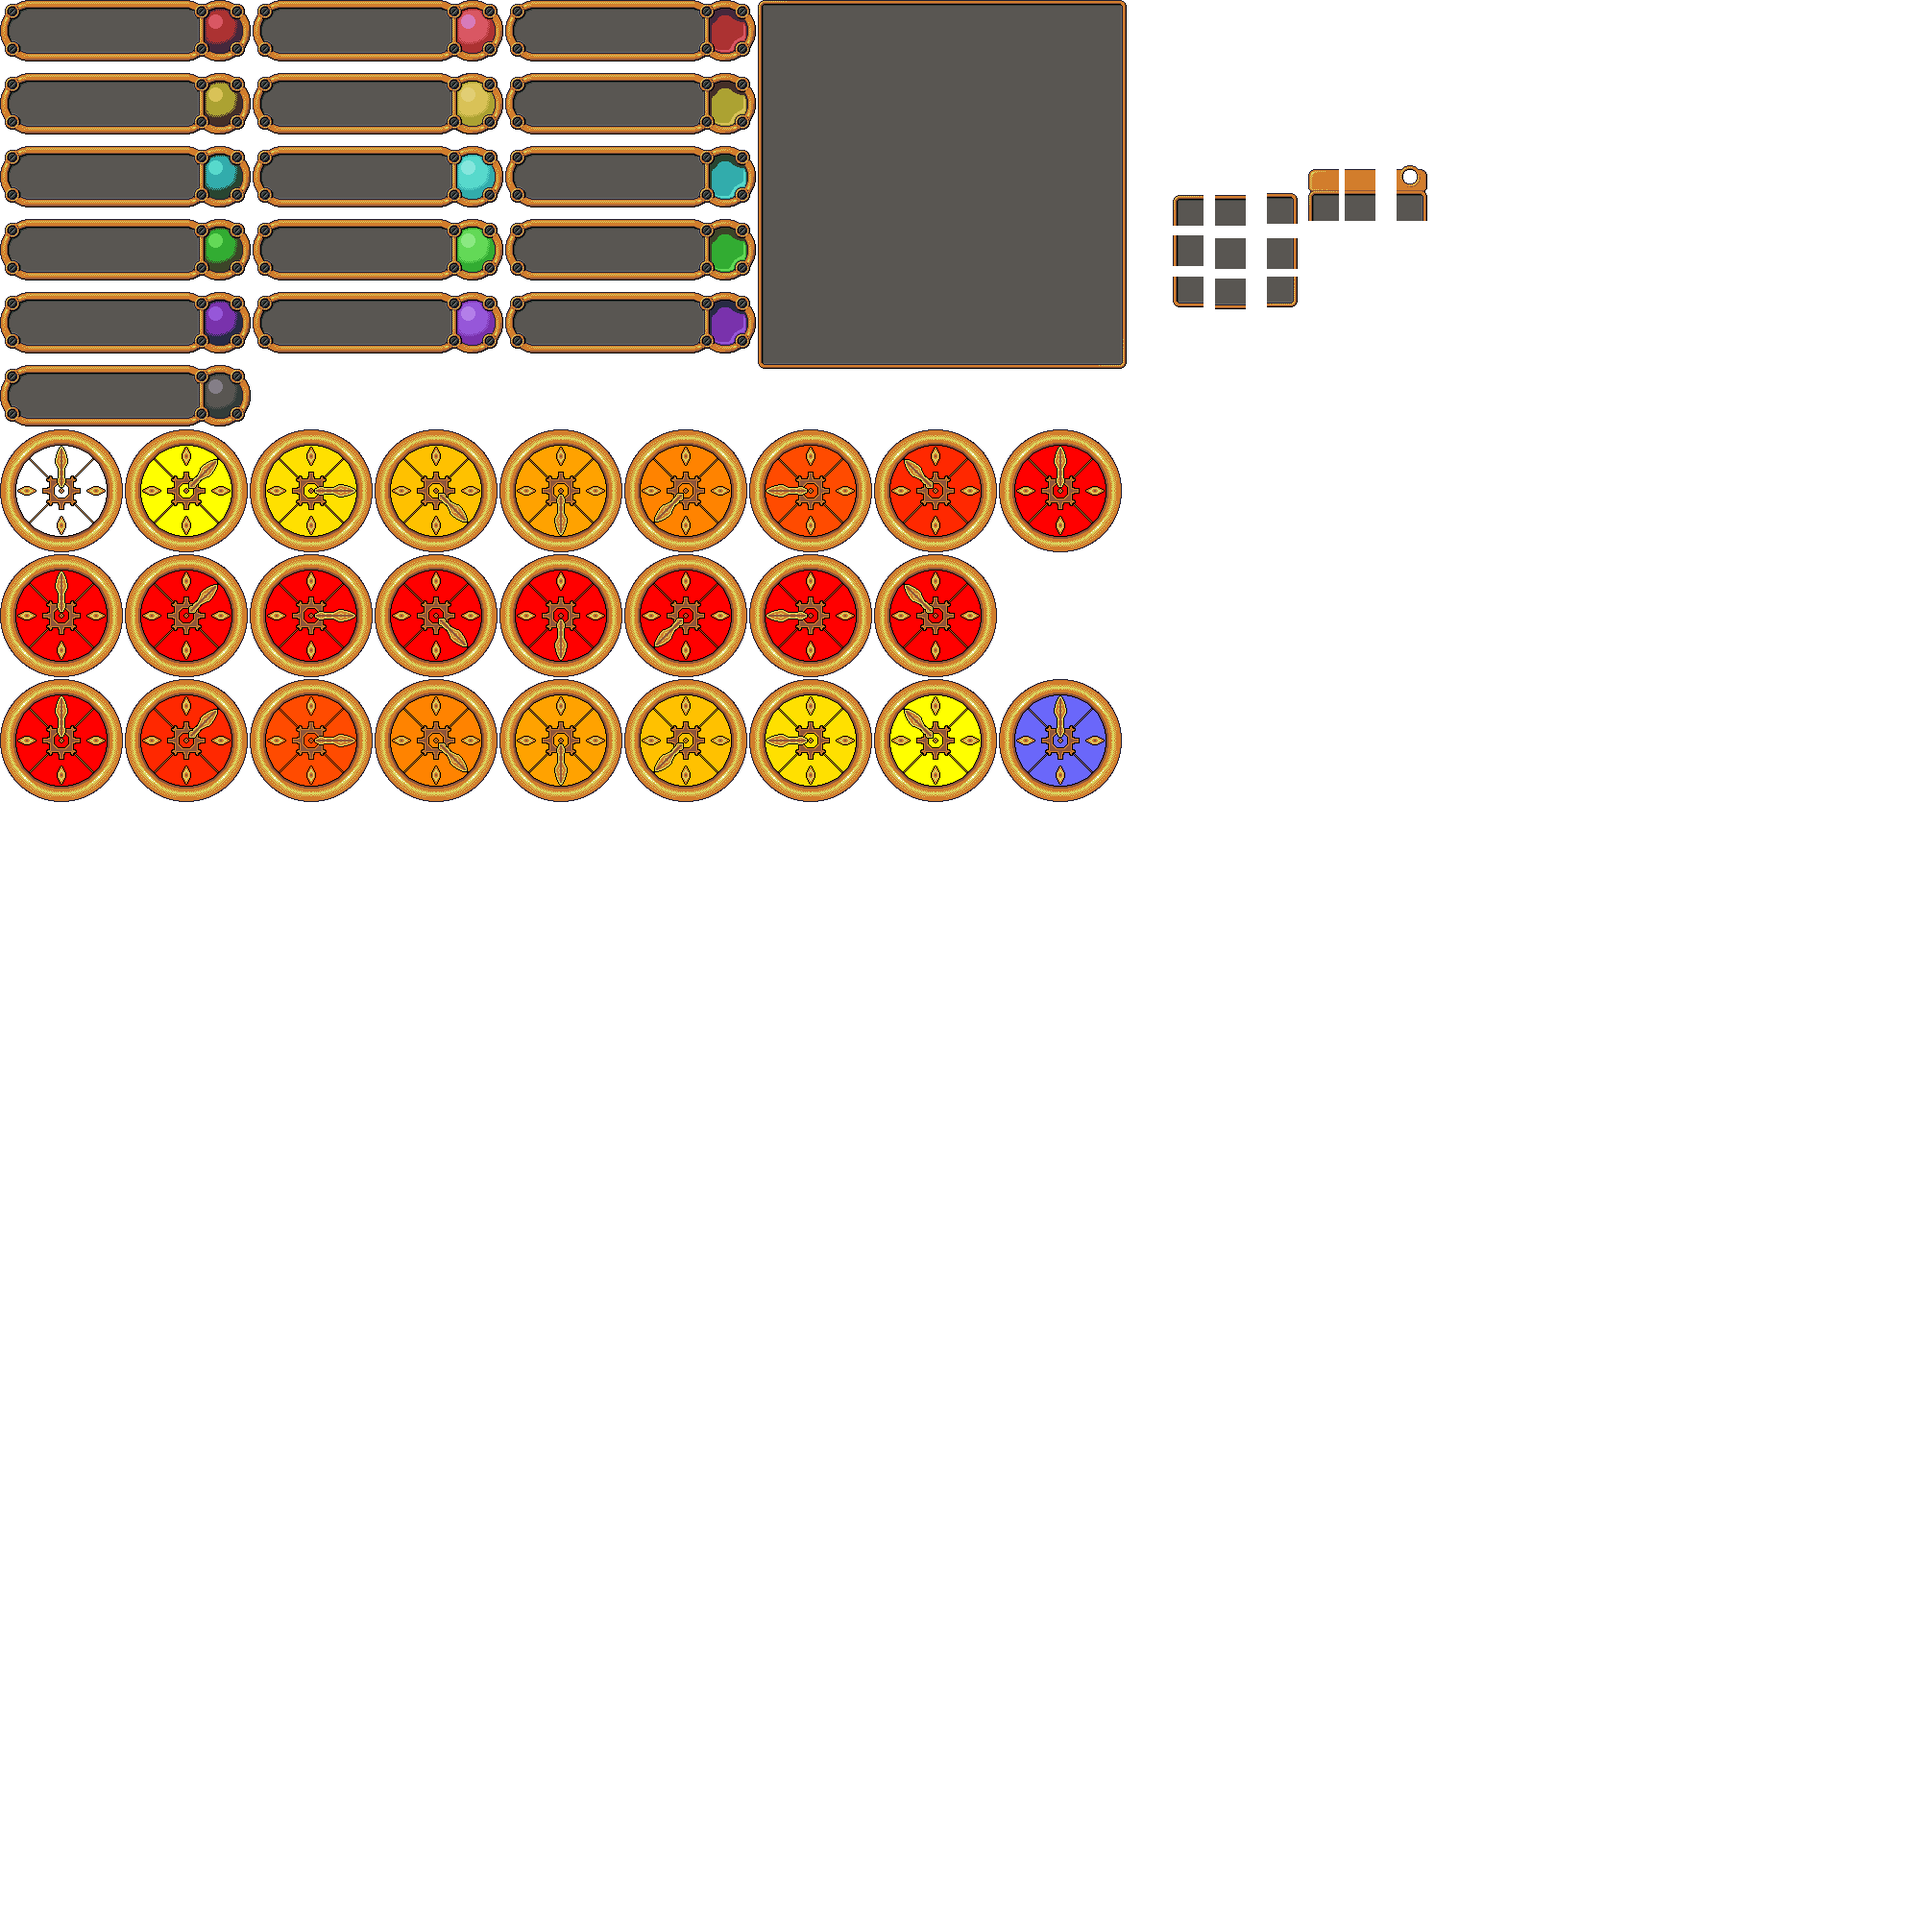
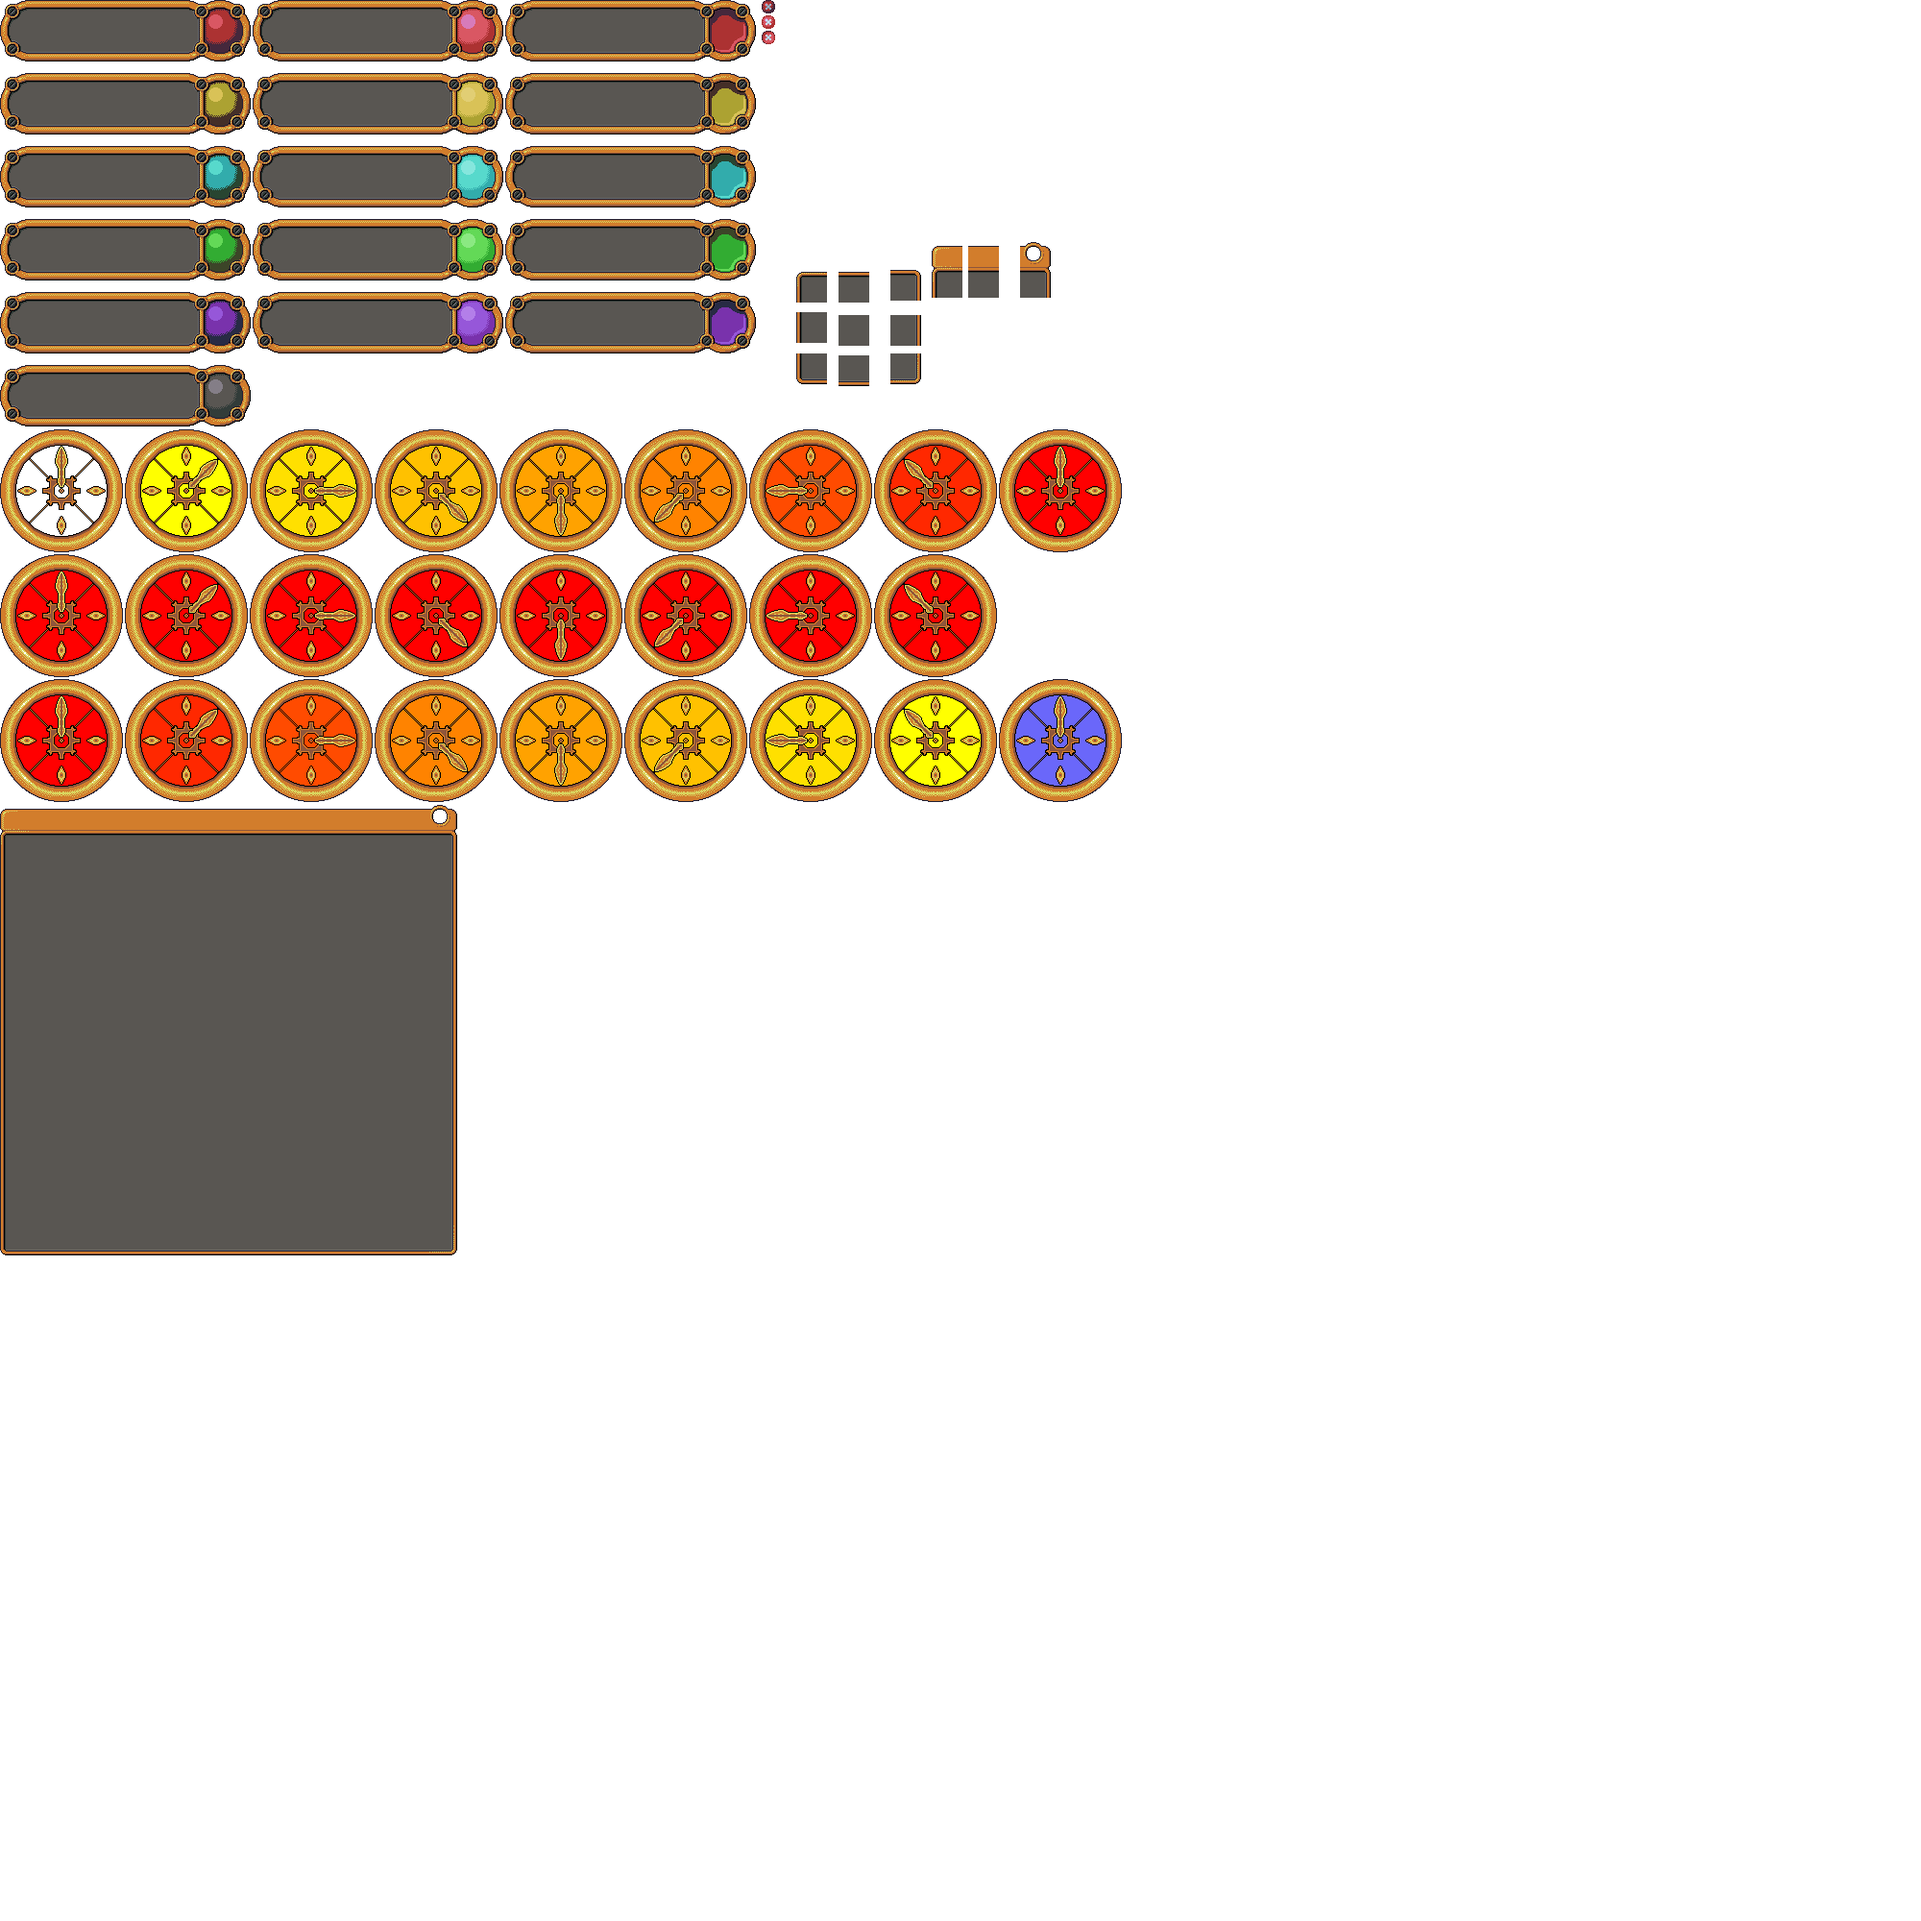
example credits window added

Changed region(s): [[0.0, 0.403, 0.248, 0.651], [0.372, 0.0, 0.744, 0.217]]

diff --git a/Dev_class5_Orthogonal/Motor2D/j1Gui.cpp b/Dev_class5_Orthogonal/Motor2D/j1Gui.cpp
@@ -466,11 +466,11 @@ UIElement * j1Gui::Load_Label_fromXML(pugi::xml_node node)
 	p2SString label = node.child("label").attribute("value").as_string();
 	int size = node.child("size").attribute("value").as_int();
 	bool draggable = node.child("draggable").attribute("value").as_bool();
-	if (!node.child("active").attribute("value").as_bool(true))
-		ret->active = false;
 
 	ret = AddLabel(position, relativepos, fontPath, color, label, size, draggable);
 
+	if (!node.child("active").attribute("value").as_bool(true))
+		ret->active = false;
 	return ret;
 }
 

diff --git a/Dev_class5_Orthogonal/Motor2D/Interactive.cpp b/Dev_class5_Orthogonal/Motor2D/Interactive.cpp
@@ -12,7 +12,7 @@ Interactive::Interactive()
 }
 
 
-Interactive::Interactive(SDL_Rect& pos, iPoint Interactiverelativepos, InteractiveType type, j1Module* callback) :  callback(callback)
+Interactive::Interactive(SDL_Rect& pos, iPoint Interactiverelativepos, InteractiveType type, j1Module* callback) :  callback(callback), Interactiverelativepos(Interactiverelativepos)
 {
 	this->type = type;
 	collider.x = pos.x + Interactiverelativepos.x;

diff --git a/Dev_class5_Orthogonal/Motor2D/Image.cpp b/Dev_class5_Orthogonal/Motor2D/Image.cpp
@@ -19,7 +19,7 @@ Image::Image(SDL_Rect& position, iPoint positionOffset)
 	SDL_QueryTexture(image, nullptr, nullptr, &image_section.w, &image_section.h);
 }
 
-Image::Image(SDL_Rect& position, iPoint positionOffset, SDL_Rect&  image_section)
+Image::Image(SDL_Rect& position, iPoint positionOffset, SDL_Rect&  image_section) : Imagerelativepos(positionOffset)
 {
 	this->image = App->gui->GetAtlas();
 	this->image_section = image_section;
